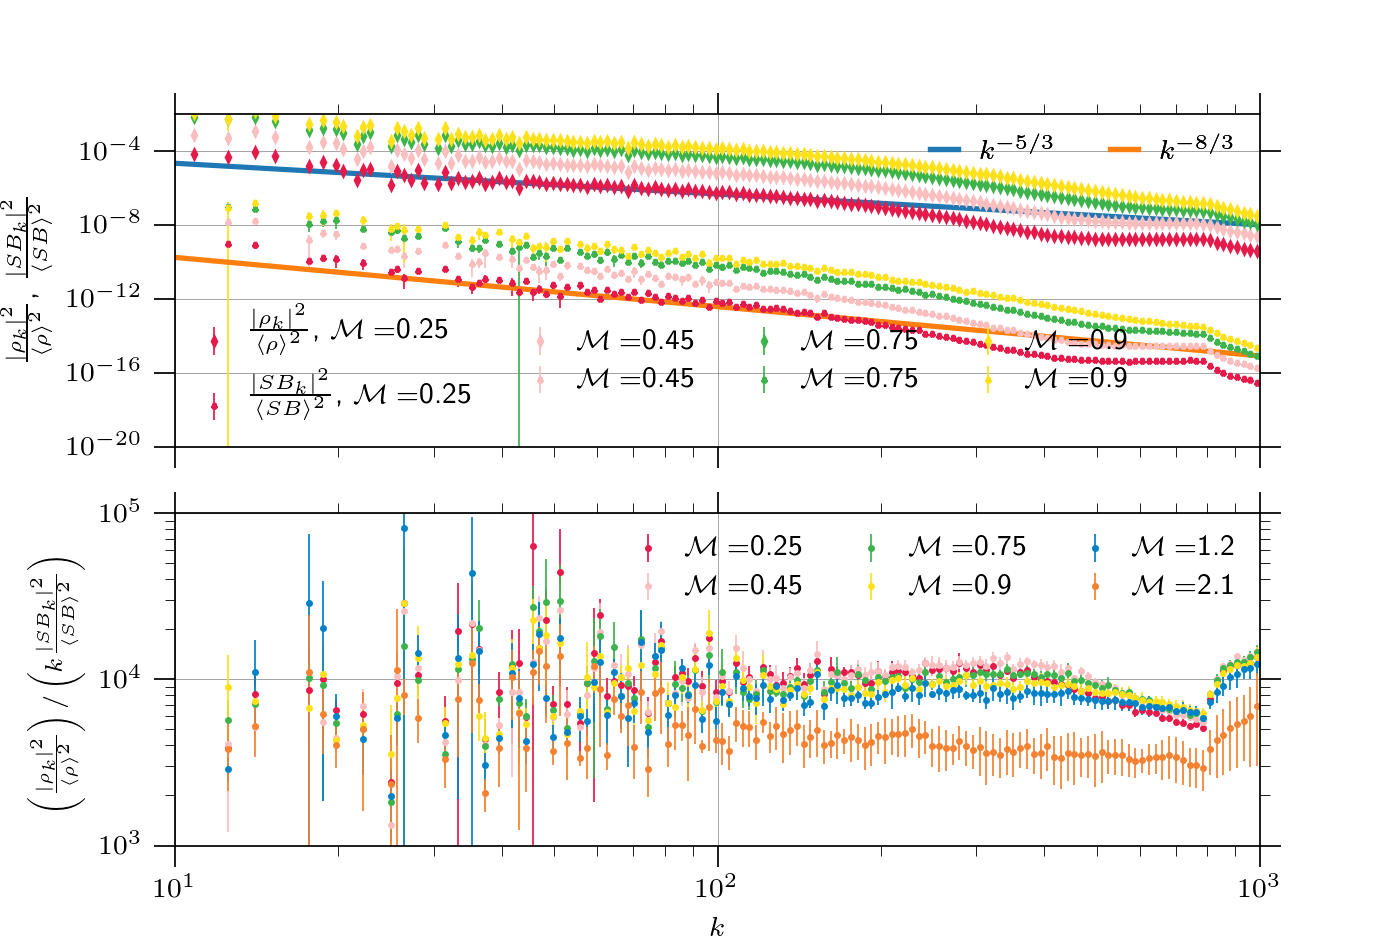
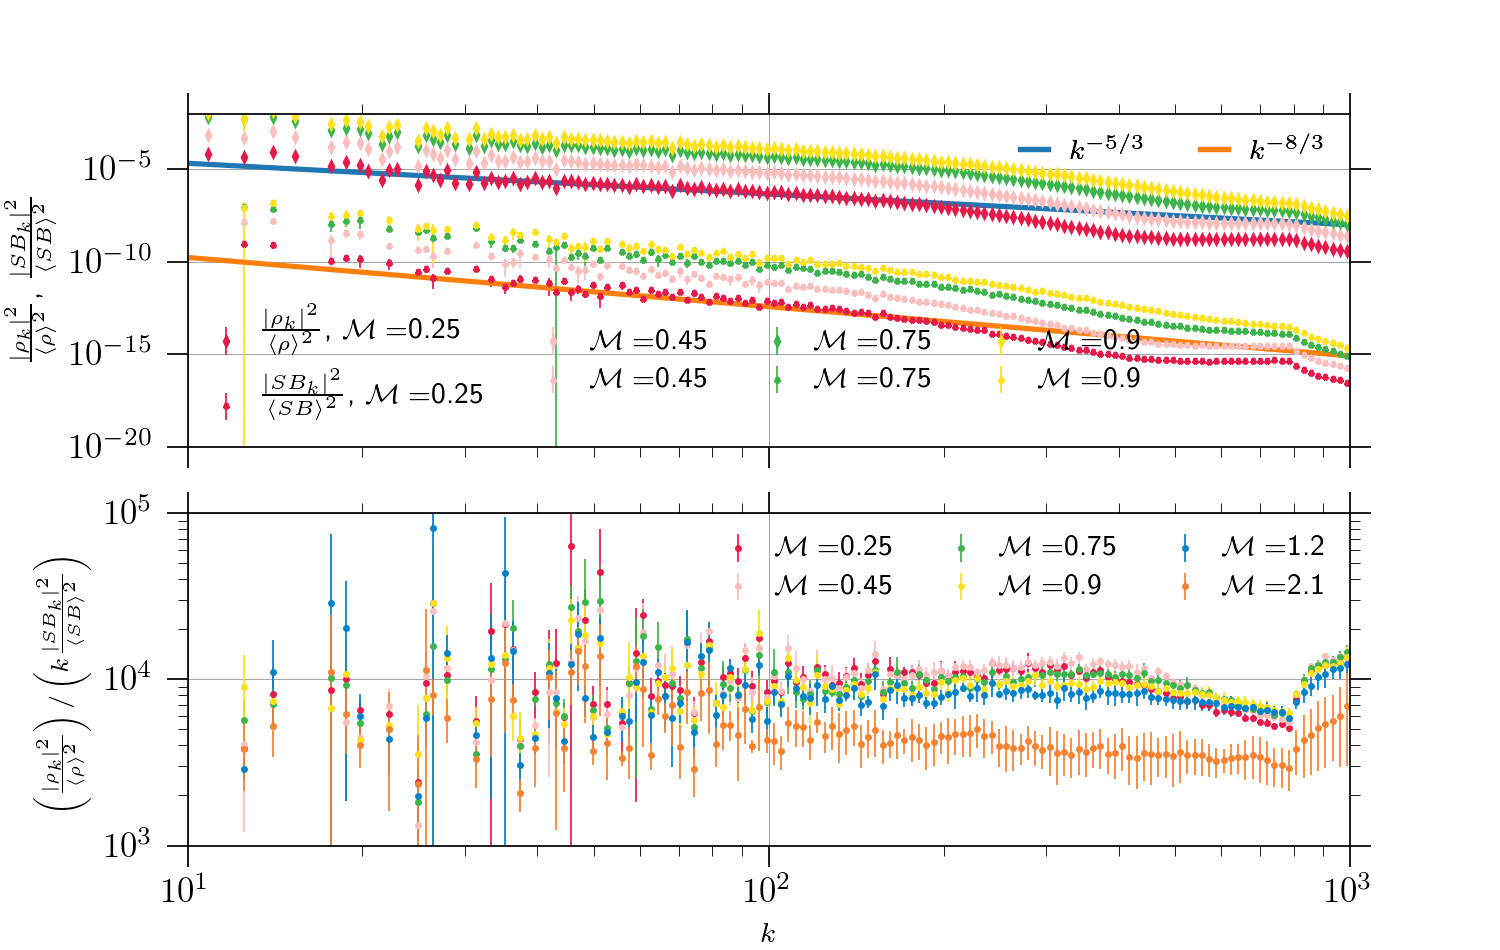
Edited a plot

diff --git a/surface_brightness/sbk_rhok.py b/surface_brightness/sbk_rhok.py
@@ -16,8 +16,8 @@ plt.rcParams['xtick.minor.size'] = 4
 plt.rcParams['ytick.major.size'] = 6
 plt.rcParams['ytick.minor.size'] = 3
 plt.rcParams['ytick.minor.size'] = 3
-plt.rcParams['xtick.labelsize'] = 8
-plt.rcParams['ytick.labelsize'] = 8
+plt.rcParams['xtick.labelsize'] = 10
+plt.rcParams['ytick.labelsize'] = 10
 plot.rcParams.update(params)
 
 plt.rc('text', usetex=True)
@@ -27,7 +27,7 @@ start_time = time.time()
 
 #Initialise the figure
 fig, (ax1, ax2) = plt.subplots(2, 1, sharex=True)
-fig.set_size_inches(5.6, 3.8)
+fig.set_size_inches(6., 3.8)
 
 amp=np.array((0.005, 0.02, 0.1, 0.1, 0.9,2.5))
 mach=((0.25, 0.45, 0.75, 0.90, 1.2, 2.1))
